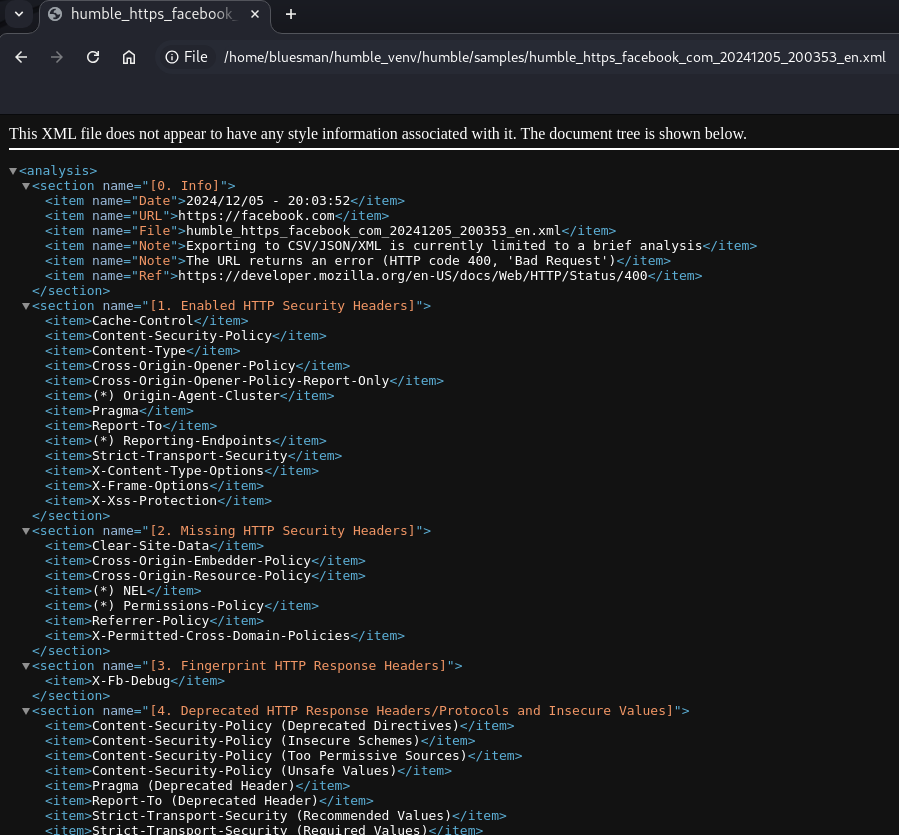
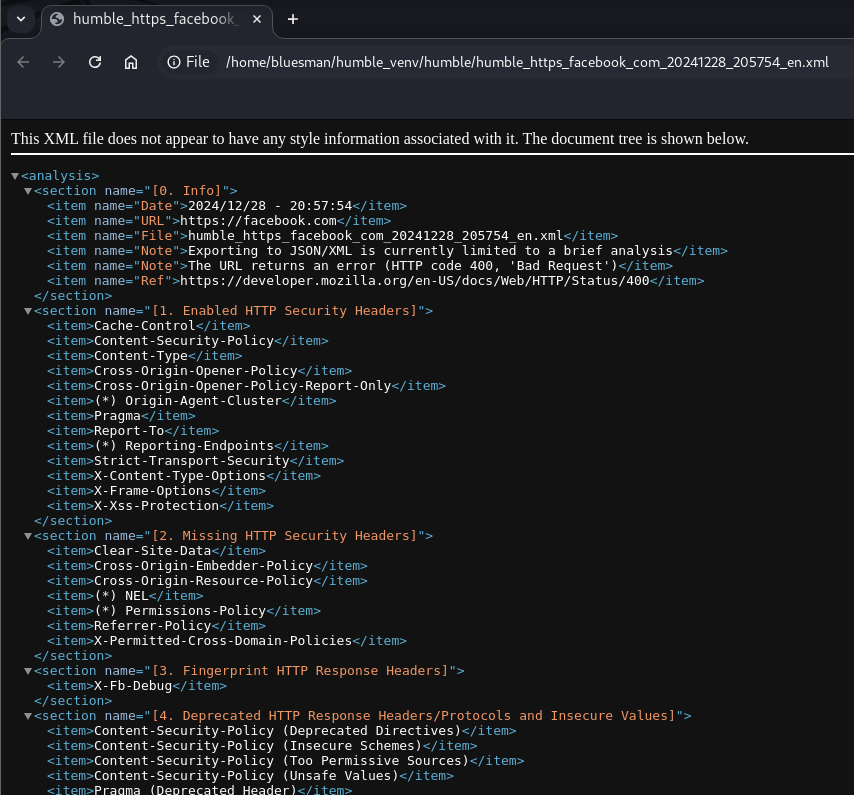
Minor: Screenshots updated

diff --git a/README.md b/README.md
@@ -156,7 +156,7 @@ Options used: -f -g -p -U -s --hints
 <img src="https://github.com/rfc-st/humble/blob/master/screenshots/humble_json_s.PNG" alt="(Linux) - Brief analysis saved as JSON" width=70% height=70%>
 </p>
 <br />
-.: (Linux) - Brief analysis saved as XML. <a href="https://github.com/rfc-st/humble/raw/master/samples/humble_https_facebook_com_20241205_200353_en.xml">Example.</a><br />
+.: (Linux) - Brief analysis saved as XML. <a href="https://github.com/rfc-st/humble/raw/master/samples/humble_https_facebook_com_20241228_205754_en.xml">Example.</a><br />
 <p></p>
 <p align="center">
 <img src="https://github.com/rfc-st/humble/blob/master/screenshots/humble_xml_s.PNG" alt="(Linux) - Brief analysis saved as XML" width=70% height=70%>
